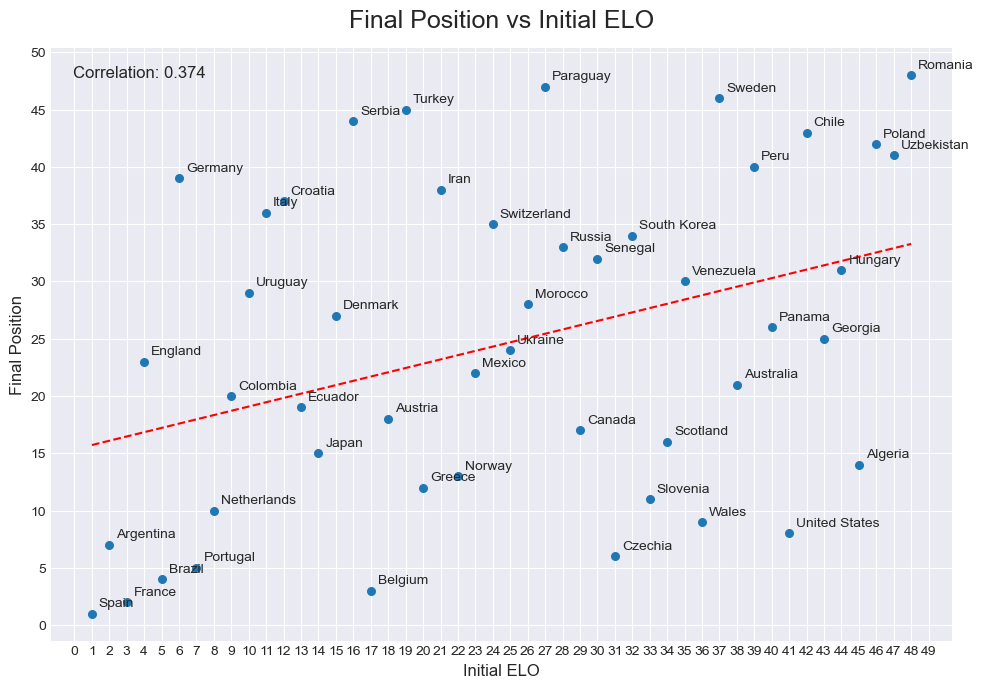
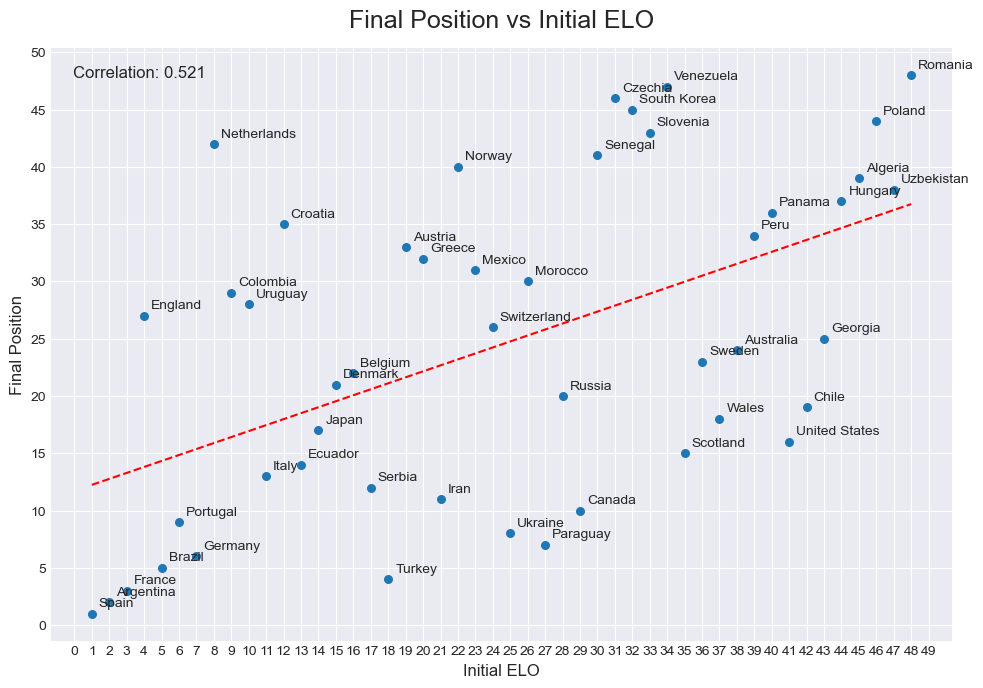
ran it again

diff --git a/main.py b/main.py
@@ -96,7 +96,7 @@ def main():
     # Swiss Format (8 rounds)
     swiss_tournament = SwissTournament(load_teams_from_csv(), MatchEngine(), rounds = 8)
     swiss_tournament.run()
-    compute_metrics("8-round Swiss", swiss_tournament.get_rankings(), swiss_tournament, initial_elos, corr_eval, ic_eval)
+    compute_metrics("8-Round Swiss", swiss_tournament.get_rankings(), swiss_tournament, initial_elos, corr_eval, ic_eval)
 
 if __name__ == "__main__":
     main()

diff --git a/README.md b/README.md
@@ -12,7 +12,7 @@ The current release reproduces the three formats analyzed in our paper:
 The simulator tracks two headline metrics:
 
 - **Elo–finish correlation** (Spearman ρ, plus average / maximum position error)
-- **Low-incentive fixtures** — group games where both sides are already safe or already eliminated before kick-off
+- **Low-incentive fixtures** — group games where both sides are already safe or already eliminated before kickoff
 
 ---
 
@@ -62,15 +62,15 @@ Example console output:
 
 ```
 [FIFA 2026]
-Correlation: 0.828 | Avg pos diff: 3.94
-Low-incentive games: 12/72 (16.7 %)
+Correlation: 0.756  |  Avg pos diff: 3.68
+Low-incentive games: 9/72 (12.5 %)
 
-[Pure Play-off]
-Correlation: 0.610 | Avg pos diff: 6.77
+[Pure Playoff]
+Correlation: 0.398  |  Avg pos diff: 8.38
 Low-incentive games: 0/31 (0.0 %)
 
-[8-round Swiss]
-Correlation: 0.904 | Avg pos diff: 2.48
+[8-Round Swiss]
+Correlation: 0.522  |  Avg pos diff: 10.79
 Low-incentive games: 0/192 (0.0 %)
 ```
 
